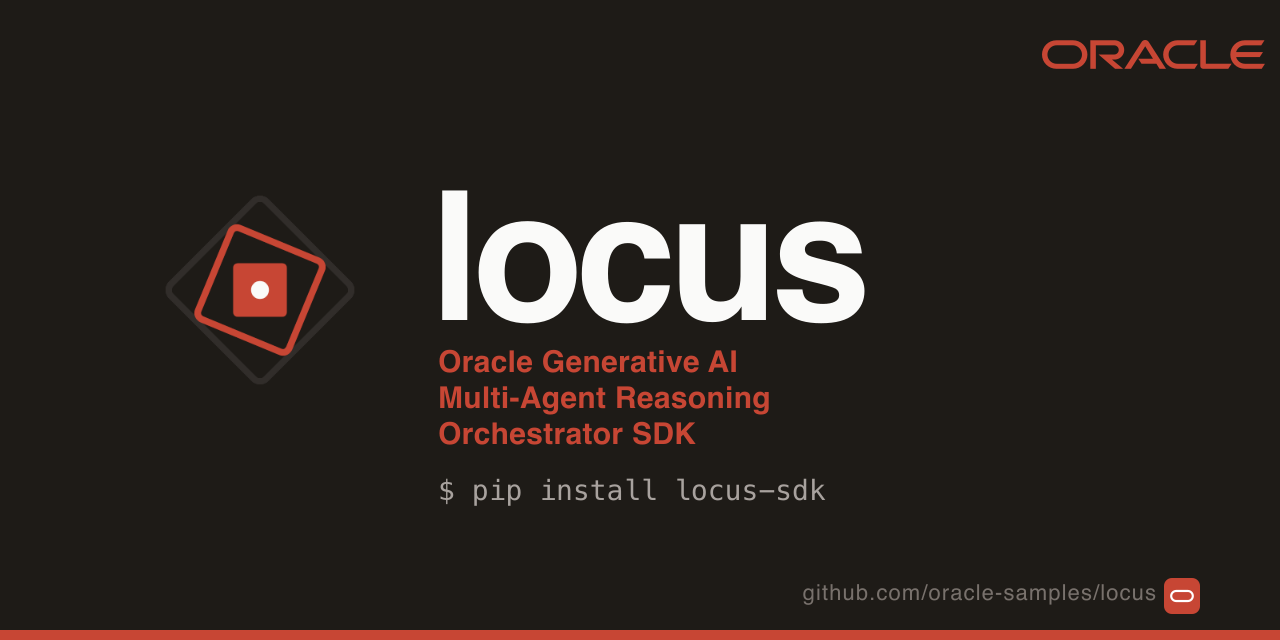
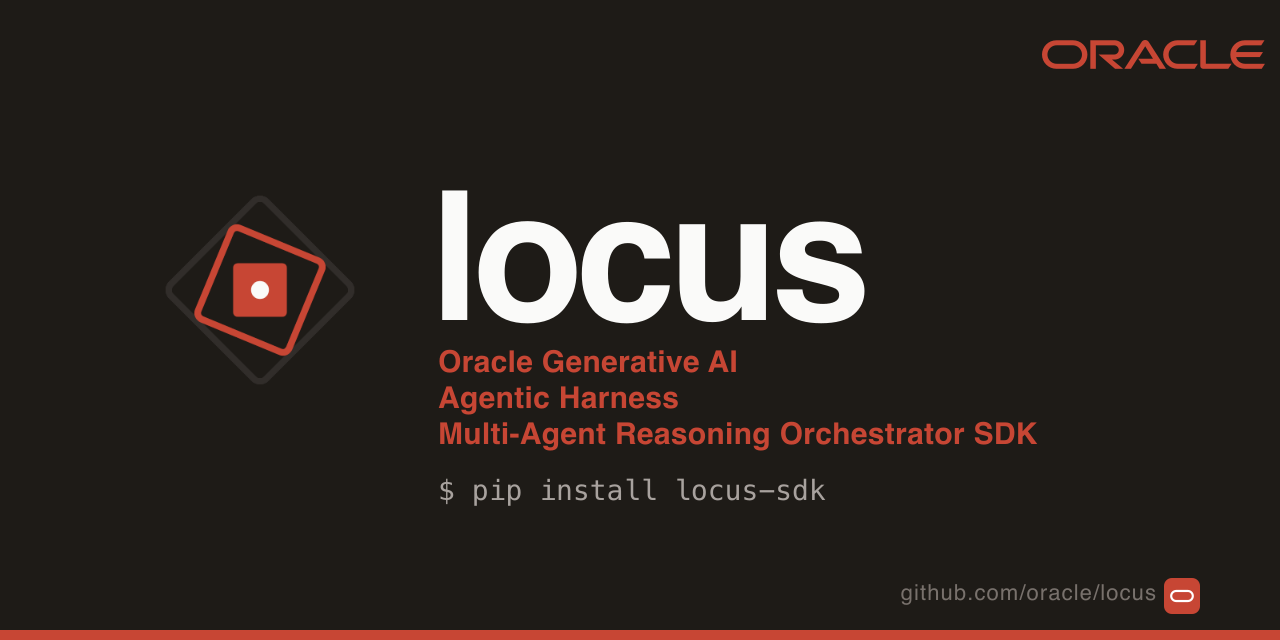
docs: position Locus as the Oracle Generative AI Agentic Harness
Name the product consistently across the README, the documentation site
(home page section, product name, site description, page titles, Open
Graph metadata, social card), the package metadata and the security
policy. The README and the home page gain a section that defines the
harness (admission gate, grounding and guardrails, cognitive routing,
Oracle Cloud first-class) and shows governed_agent() assembling it in
one call. The social card now points at github.com/oracle/locus and is
re-rendered from the SVG.

Changed region(s): [[0.3438, 0.5938, 0.8125, 0.7188], [0.625, 0.9062, 0.8438, 0.9375]]

diff --git a/overrides/main.html b/overrides/main.html
@@ -7,7 +7,7 @@
   hover.
 #}
 {% block htmltitle %}
-  {% set tab_title = "Oracle Generative AI – Multi-Agent Locus SDK" %}
+  {% set tab_title = "Oracle Generative AI Agentic Harness" %}
   {% if page and page.title and not page.is_homepage %}
     <title>{{ page.title | striptags }} - {{ tab_title }}</title>
   {% else %}
@@ -31,18 +31,18 @@
   {% set og_image = (config.site_url ~ "/img/og-card.png") | replace("//img/", "/img/") %}
 
   <meta property="og:type" content="website">
-  <meta property="og:site_name" content="Oracle Generative AI – Multi-Agent Locus SDK">
+  <meta property="og:site_name" content="Oracle Generative AI Agentic Harness">
   <meta property="og:title" content="{{ page_title }}">
   <meta property="og:description" content="{{ page_desc }}">
   <meta property="og:url" content="{{ page_url }}">
   <meta property="og:image" content="{{ og_image }}">
   <meta property="og:image:width" content="1280">
   <meta property="og:image:height" content="640">
-  <meta property="og:image:alt" content="Oracle Generative AI – Multi-Agent Locus SDK · pip install locus-sdk · Built inside Oracle · github.com/oracle/locus">
+  <meta property="og:image:alt" content="Oracle Generative AI Agentic Harness · Locus SDK · pip install locus-sdk · Built inside Oracle · github.com/oracle/locus">
 
   <meta name="twitter:card" content="summary_large_image">
   <meta name="twitter:title" content="{{ page_title }}">
   <meta name="twitter:description" content="{{ page_desc }}">
   <meta name="twitter:image" content="{{ og_image }}">
-  <meta name="twitter:image:alt" content="Oracle Generative AI – Multi-Agent Locus SDK · pip install locus-sdk · Built inside Oracle · github.com/oracle/locus">
+  <meta name="twitter:image:alt" content="Oracle Generative AI Agentic Harness · Locus SDK · pip install locus-sdk · Built inside Oracle · github.com/oracle/locus">
 {% endblock %}

diff --git a/src/locus/__init__.py b/src/locus/__init__.py
@@ -3,7 +3,7 @@
 # https://oss.oracle.com/licenses/upl/
 
 """
-Locus - the agent framework where the model never holds the trigger.
+Locus - the Oracle Generative AI Agentic Harness: the agent framework where the model never holds the trigger.
 
 Every consequential action clears a policy check first: real code, outside the
 model, before the side effect, on a record you can verify. Around that gate sits

diff --git a/README.md b/README.md
@@ -1,10 +1,10 @@
 <p align="center">
-  <img src="docs/img/og-card.png" alt="Oracle Generative AI – Multi-Agent Locus SDK · pip install locus-sdk · Built by Oracle · github.com/oracle/locus" width="720">
+  <img src="docs/img/og-card.png" alt="Oracle Generative AI Agentic Harness · Locus SDK · pip install locus-sdk · Built by Oracle · github.com/oracle/locus" width="720">
 </p>
 
 <p align="center">
-  <strong>Oracle Generative AI · Multi-Agent Reasoning Orchestrator SDK</strong><br>
-  <em>Built inside Oracle. Used in production. Open to everyone.</em>
+  <strong>Oracle Generative AI Agentic Harness</strong><br>
+  <em>Multi-agent reasoning orchestrator SDK · Built inside Oracle. Used in production. Open to everyone.</em>
 </p>
 
 <p align="center">
@@ -41,6 +41,39 @@
 <p align="center">
   <em>Oracle Database 26ai is wired in as a first-class backend — native <code>VECTOR(N, FLOAT32)</code> RAG, durable agent threads, in-DB chunking and embeddings, long-term agent memory.</em>
 </p>
+
+---
+
+## The Oracle Generative AI Agentic Harness
+
+Locus is the **Oracle Generative AI Agentic Harness**: a fully assembled agent harness you build on, or
+wrap around the agent you already have, and control end-to-end. The harness is the layer *around*
+the model — the parts a model cannot be trusted to supply for itself:
+
+- **Admission gate.** Every consequential action clears `admit()` first: real code, outside the
+  model, before the side effect, held for a human when the policy says so, recorded on a signed
+  audit trail.
+- **Grounding and guardrails.** Every claim is checked against the tool result that produced it or
+  the agent abstains (GSAR); input, output and tool-call guardrails catch the rest.
+- **Cognitive routing and multi-agent shapes.** Describe the task; the router picks one of eight
+  production-tested protocols — direct answer, pipeline, fan-out, debate, code + test, approval
+  gate, A2A, handoff — and coordinates the agents.
+- **Oracle Cloud, first-class.** Day-0 on OCI Generative AI (90+ models, three transports,
+  automatic routing) and Oracle Database 26ai for RAG, durable threads and long-term memory. Every
+  other provider through the same `Agent`.
+
+One call assembles the whole harness:
+
+```python
+from locus.control import governed_agent
+
+agent = governed_agent(model="oci:openai.gpt-5", tools=[...])
+print(agent.run_sync("Refund order 8812 if the return was received.").text)
+assert agent.audit_trail.verify()   # the chain is intact — no record was altered
+```
+
+Or put the same `admit()` / `approve()` gate around a LangChain chain, a plain OpenAI loop or a
+CrewAI crew — see [The admission gate](#the-admission-gate).
 
 ---
 

diff --git a/docs/index.md b/docs/index.md
@@ -2,13 +2,13 @@
 hide:
   - navigation
   - toc
-description: Oracle Generative AI – Multi-Agent Locus SDK. Multi-agent workflows for Python with an admission gate in front of every consequential action, built first-class for OCI Generative AI and Oracle Database 26ai.
+description: Oracle Generative AI Agentic Harness. Locus is a fully assembled agent harness for Python with an admission gate in front of every consequential action, built first-class for OCI Generative AI and Oracle Database 26ai.
 ---
 
 <div class="locus-hero" markdown>
 <div class="locus-hero__copy" markdown>
 
-<p class="locus-product-name">Oracle Generative AI Multi-Agent Reasoning Orchestrator SDK</p>
+<p class="locus-product-name">Oracle Generative AI Agentic Harness</p>
 
 # Multi-agent workflows built for <span class="accent">production.</span>
 
@@ -90,6 +90,55 @@ asyncio.run(main())
 
 </div>
 </div>
+
+## The Oracle Generative AI Agentic Harness
+
+Locus is the **Oracle Generative AI Agentic Harness**: a fully assembled agent harness you
+build on, or wrap around the agent you already have, and control end-to-end. The
+harness is the layer *around* the model — the parts a model cannot be trusted to
+supply for itself.
+
+<div class="grid cards locus-feature-cards" markdown>
+
+- :material-shield-lock:{ .lg .middle } **Admission gate**
+
+    ---
+    Every consequential action clears `admit()` first: real code, outside the
+    model, before the side effect, held for a human when the policy says so,
+    recorded on a signed audit trail.
+
+- :material-check-decagram:{ .lg .middle } **Grounding and guardrails**
+
+    ---
+    Every claim is checked against the tool result that produced it or the
+    agent abstains (GSAR). Input, output and tool-call guardrails catch the rest.
+
+- :material-graph:{ .lg .middle } **Cognitive routing**
+
+    ---
+    Describe the task; the router picks one of eight production-tested
+    protocols and coordinates the agents.
+
+- :material-cloud:{ .lg .middle } **Oracle Cloud, first-class**
+
+    ---
+    Day-0 on OCI Generative AI with three transports and automatic routing, and
+    Oracle Database 26ai for RAG, durable threads and long-term memory.
+
+</div>
+
+One call assembles the whole harness:
+
+```python
+from locus.control import governed_agent
+
+agent = governed_agent(model="oci:openai.gpt-5", tools=[...])
+print(agent.run_sync("Refund order 8812 if the return was received.").text)
+assert agent.audit_trail.verify()   # the chain is intact — no record was altered
+```
+
+Or put the same gate around a LangChain chain, a plain OpenAI loop or a CrewAI
+crew — see [the admission gate](concepts/security.md).
 
 ## Your first agent in five lines
 

diff --git a/docs/concepts/providers/oci.md b/docs/concepts/providers/oci.md
@@ -1,7 +1,7 @@
 # OCI Generative AI
 
-OCI Generative AI is Oracle Generative AI – Multi-Agent Locus SDK's
-**day-1 target** and the most capable provider in the box. It exposes
+OCI Generative AI is Locus's **day-1 target** and the most capable provider
+in the Oracle Generative AI Agentic Harness. It exposes
 90+ models — OpenAI commercial families, Meta Llama, Anthropic Claude,
 Google Gemini, xAI Grok, Mistral, and Cohere — through Oracle's hosted
 inference service. **When OCI ships a new model id, the SDK already

diff --git a/docs/about.md b/docs/about.md
@@ -5,7 +5,7 @@ description: Who maintains Locus, where it came from, and how releases, security
 
 # About Locus
 
-Locus is the Oracle Generative AI – Multi-Agent Reasoning Orchestrator SDK:
+Locus is the Oracle Generative AI Agentic Harness, a multi-agent reasoning orchestrator SDK:
 a policy gate, approvals and an audit trail in front of the actions a Python
 agent takes, on a full agent runtime built first-class for **OCI Generative
 AI** and **Oracle Database 26ai** — and open to every other provider. It is

diff --git a/docs/how-to/oci-dac.md b/docs/how-to/oci-dac.md
@@ -10,7 +10,7 @@ OCI GenAI exposes two serving modes:
   (`ocid1.generativeaiendpoint.oc1.<region>....`). Inference is routed
   to your cluster, with predictable latency and isolation guarantees.
 
-Oracle Generative AI – Multi-Agent Locus SDK auto-routes DAC endpoint
+Locus, the Oracle Generative AI Agentic Harness, auto-routes DAC endpoint
 OCIDs to the SDK transport (`OCIModel`)
 because the V1 OpenAI-compatible endpoint doesn't speak
 `DedicatedServingMode`. Pass the endpoint OCID exactly the way you'd

diff --git a/SECURITY.md b/SECURITY.md
@@ -2,7 +2,7 @@
 
 ## Reporting a Vulnerability
 
-If you believe you have found a security vulnerability in Locus (the Oracle Generative AI – Multi-Agent Locus SDK), please report it to us through coordinated disclosure.
+If you believe you have found a security vulnerability in Locus (the Oracle Generative AI Agentic Harness), please report it to us through coordinated disclosure.
 
 **Please do not report security vulnerabilities through public GitHub issues.**
 

diff --git a/docs/concepts/oci-responses.md b/docs/concepts/oci-responses.md
@@ -1,6 +1,6 @@
 # OCI Responses API — when to use it, what changes
 
-Oracle Generative AI – Multi-Agent Locus SDK exposes the OCI Generative
+Locus, the Oracle Generative AI Agentic Harness, exposes the OCI Generative
 AI **Responses** endpoint as a separate transport, `OCIResponsesModel`,
 alongside the default `OCIChatCompletionsModel` (which speaks
 `/openai/v1/chat/completions`). Picking it means opting into server-side

diff --git a/CHANGELOG.md b/CHANGELOG.md
@@ -8,6 +8,13 @@ policy.
 
 ## [Unreleased]
 
+### Changed
+
+- **Positioning.** Locus is presented as the **Oracle Generative AI Agentic Harness**
+  across the README, the documentation site (home page, site description, page
+  titles, social card), the package metadata and the security policy. The
+  social card now points at `github.com/oracle/locus`.
+
 ## [3.0.1] - 2026-10-22
 
 ### Fixed

diff --git a/docs/how-to/oci-models.md b/docs/how-to/oci-models.md
@@ -1,6 +1,6 @@
 # OCI GenAI models
 
-Oracle Generative AI – Multi-Agent Locus SDK connects to OCI Generative
+Locus, the Oracle Generative AI Agentic Harness, connects to OCI Generative
 AI through **three transports**.
 The `oci:` string factory picks V1 or SDK by model family; the
 Responses transport is opt-in.
